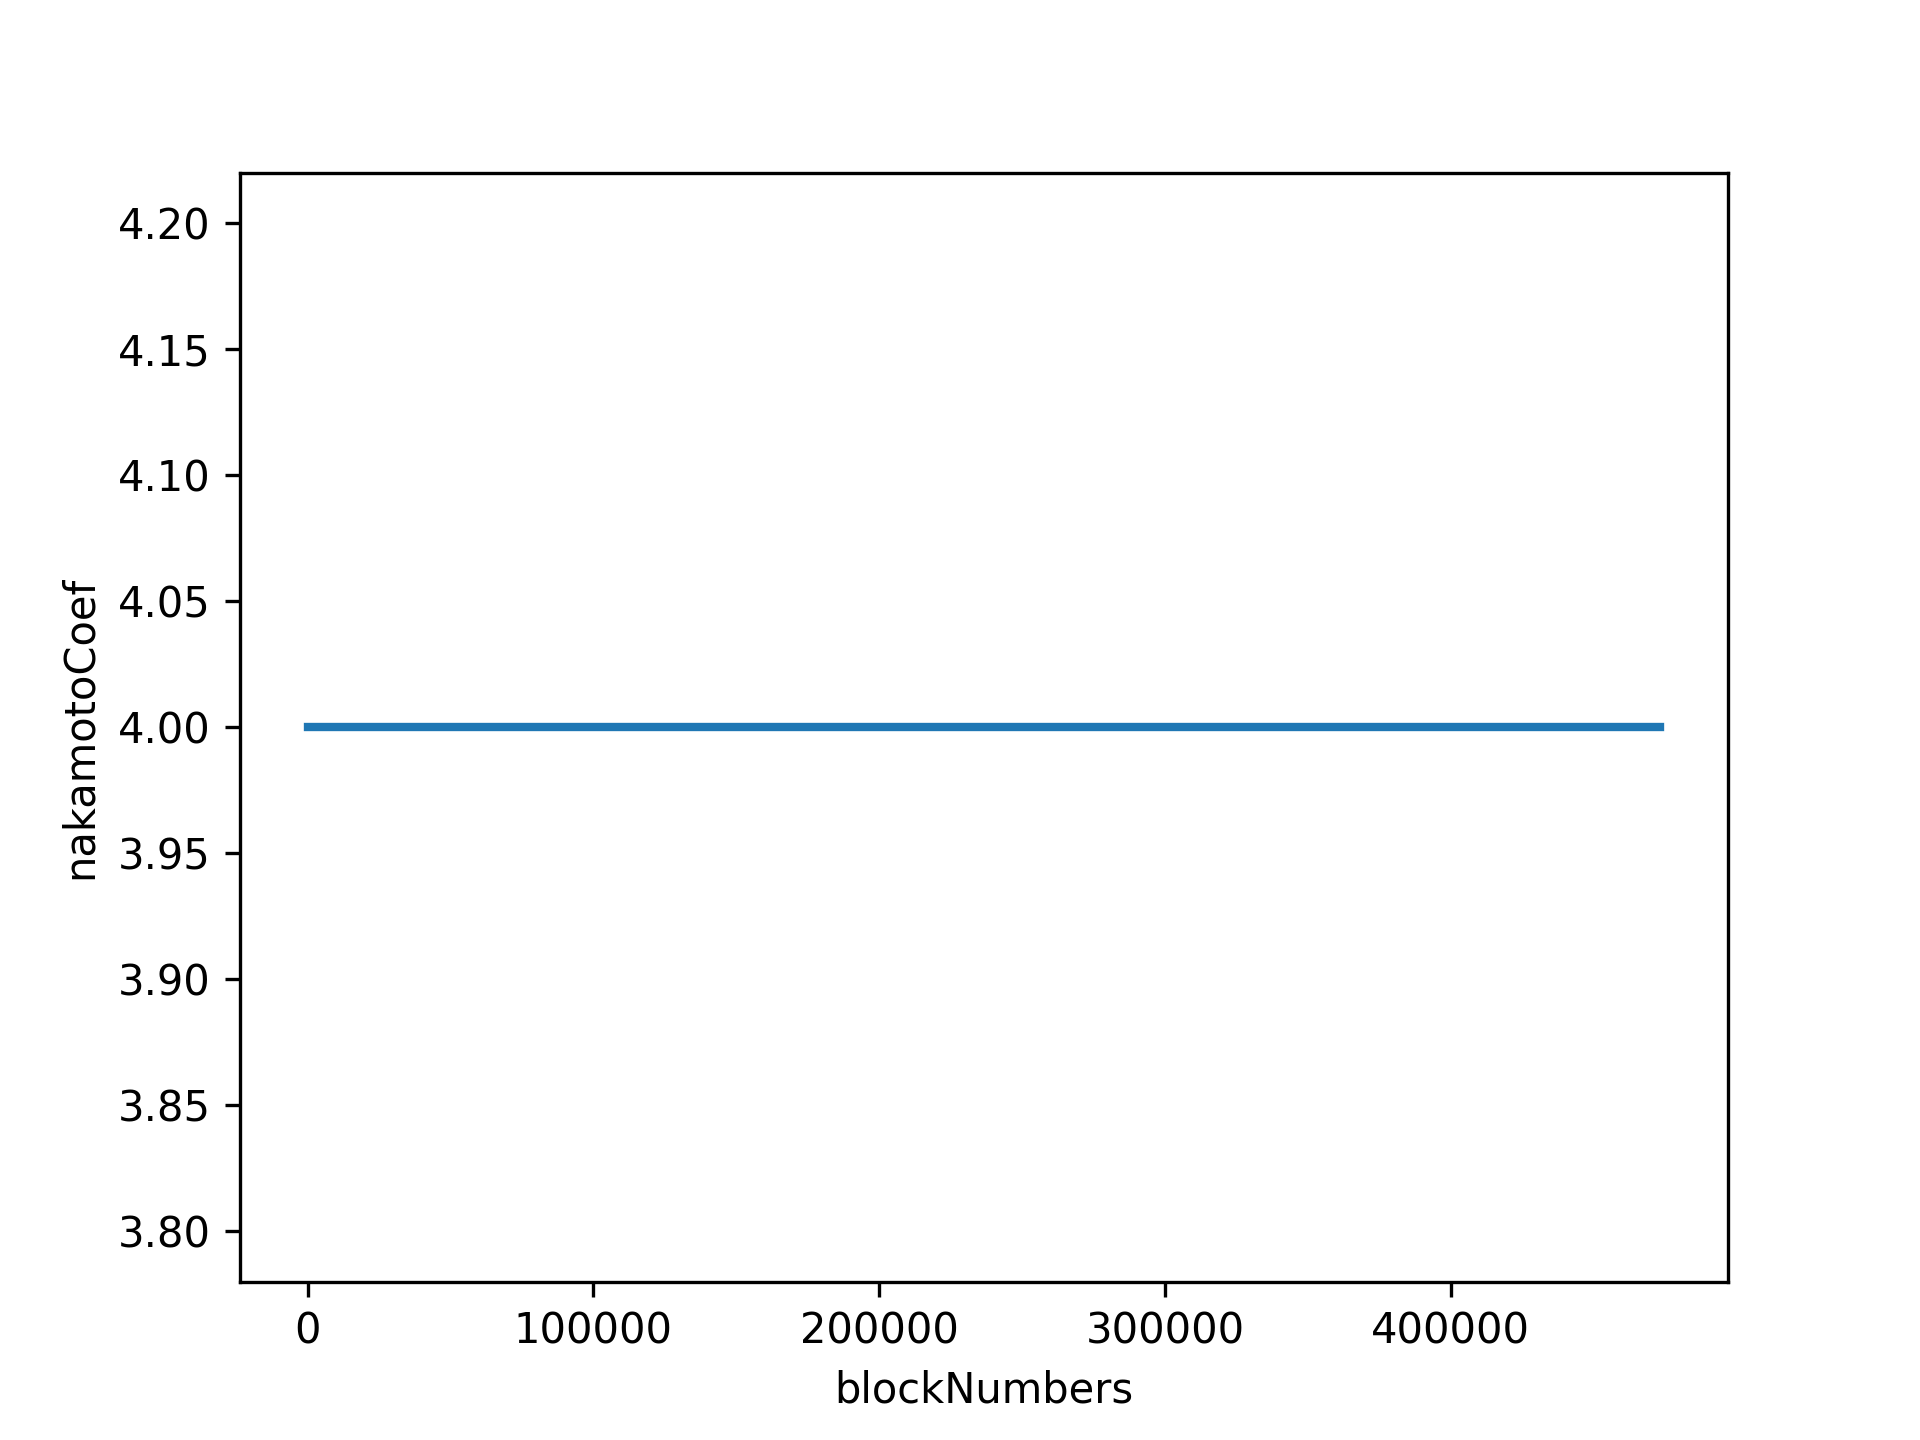
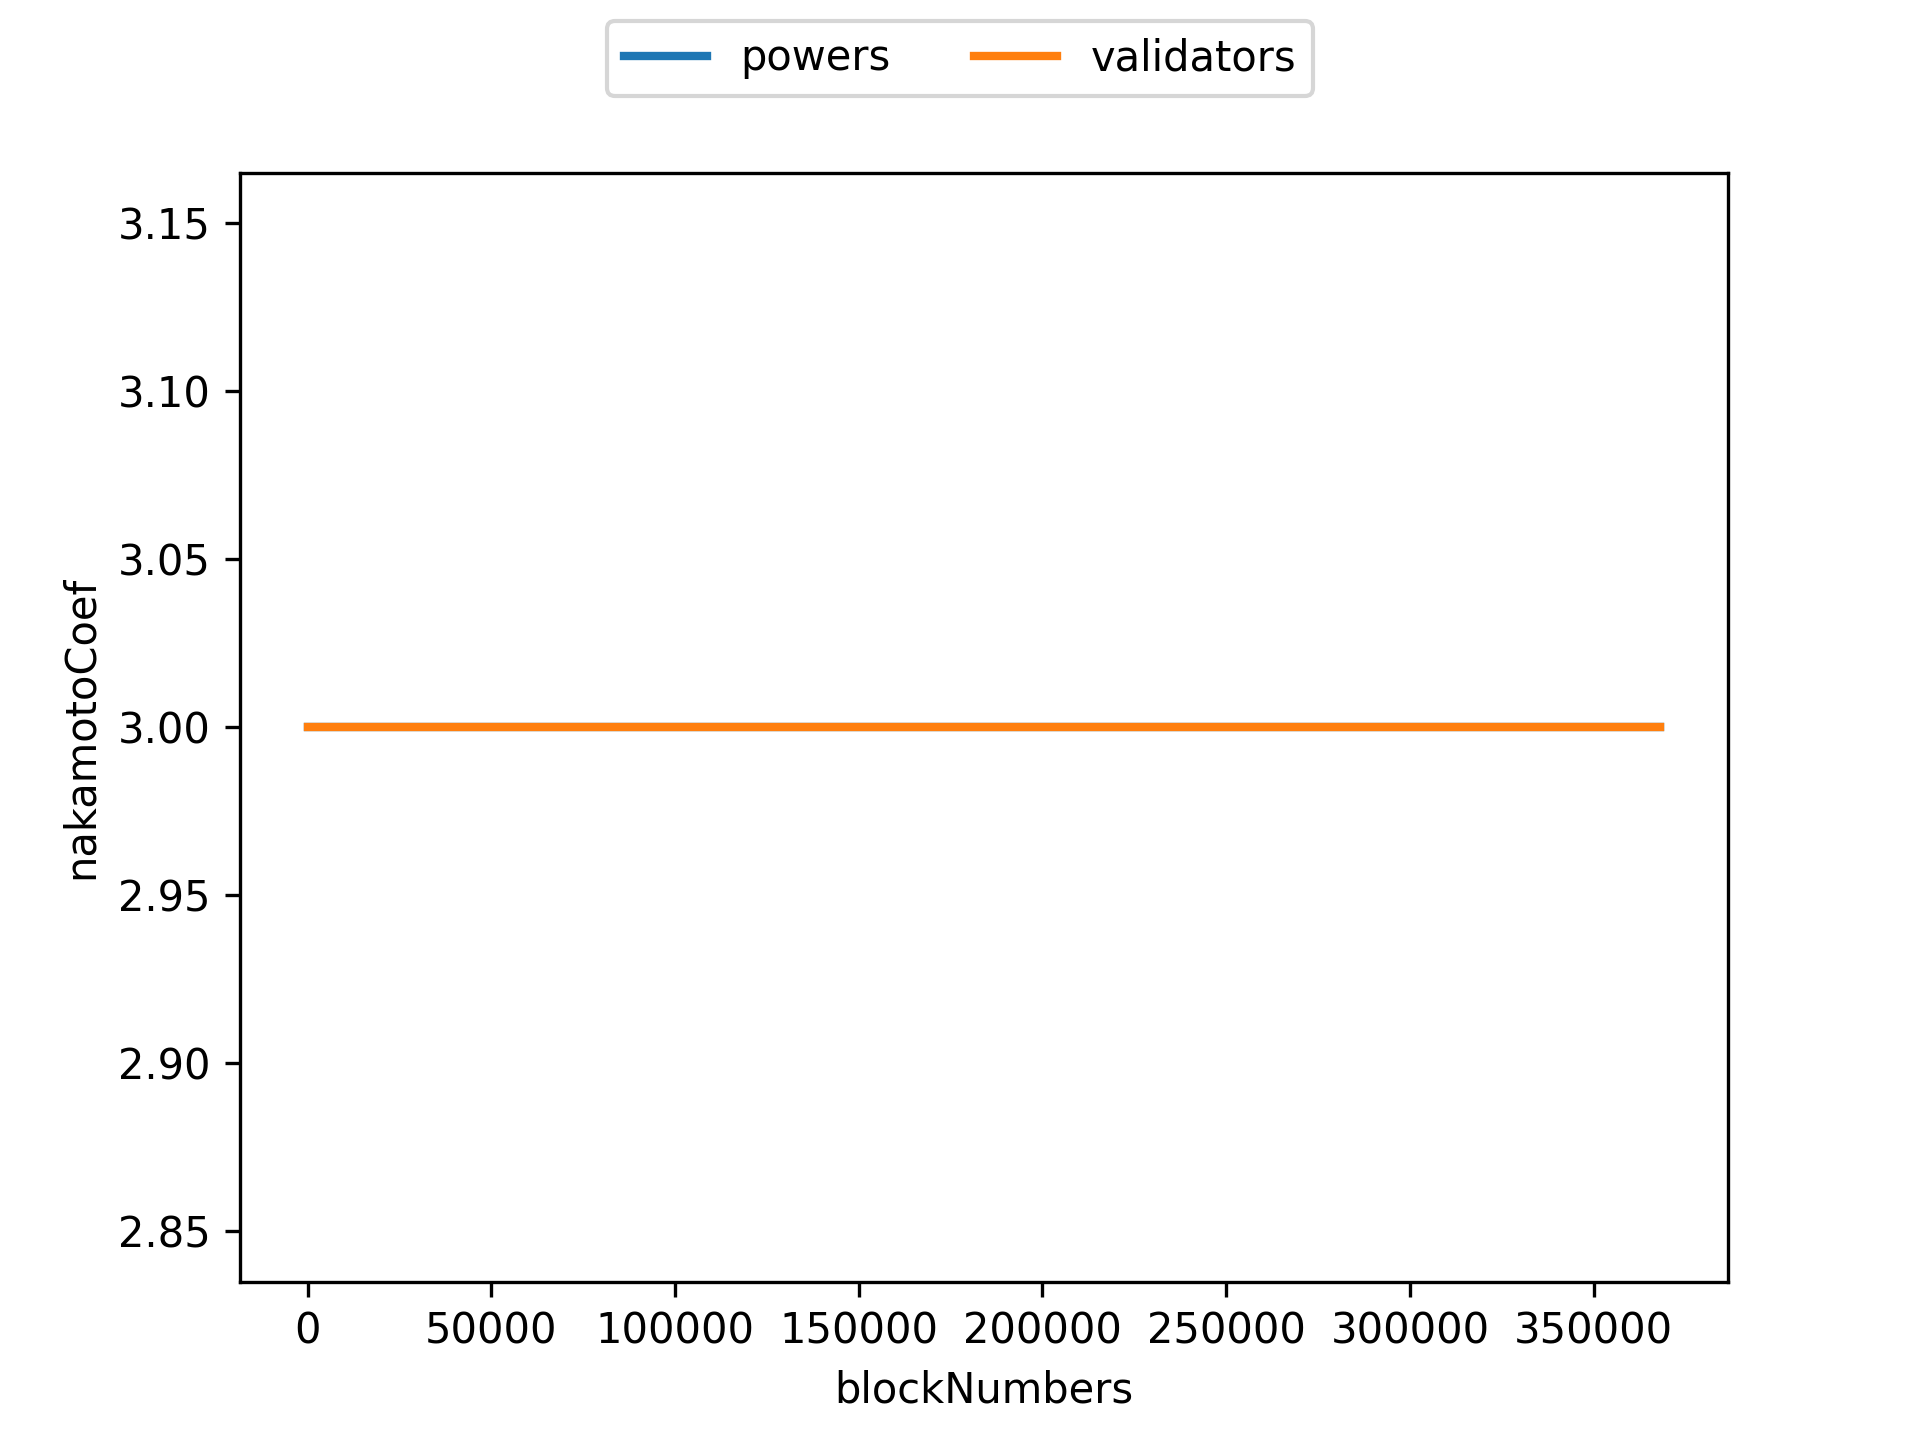
feat: nakamoto for validators only

diff --git a/simulator/dpos/env.py b/simulator/dpos/env.py
@@ -247,7 +247,8 @@ class DposEnv:
                 [self.NextAnnualProvision],
                 [self.BlockProvision],
                 [self.nodes],
-                [self.nakamoto_coefficient]
+                [self.nakamoto_coefficient_power],
+                [self.nakamoto_coefficient_validator]
             )
 
         bondedAmounts = list()
@@ -258,7 +259,8 @@ class DposEnv:
         annualProvisions = list()
         blockProvisions = list()
         nodes = list()
-        nakamotoCoef = list()
+        nakamotoCoef_power = list()
+        nakamotoCoef_validator = list()
 
         for b in range(blocks):
             inflation = self.NextInflationRate
@@ -288,7 +290,8 @@ class DposEnv:
                 blockProvisions.append(blockProvision)
 
                 nodes.append(e[5])
-                nakamotoCoef.append(e[6])
+                nakamotoCoef_power.append(e[6])
+                nakamotoCoef_validator.append(e[7])
         return (
             bondedAmounts,
             stakingRatios,
@@ -298,7 +301,8 @@ class DposEnv:
             annualProvisions,
             blockProvisions,
             nodes,
-            nakamotoCoef
+            nakamotoCoef_power,
+            nakamotoCoef_validator
         )
 
     def status(self):
@@ -310,22 +314,34 @@ class DposEnv:
             self.blockNumber,
 
             self.nodes,
-            self.nakamoto_coefficient
+            self.nakamoto_coefficient_power,
+            self.nakamoto_coefficient_validator
         )
 
     """Fairness & Decentralization"""
 
     @property
-    def nakamoto_coefficient(self):
-        sorted_validators = np.sort(self.powers)[::-1]
-        for i in range(1, len(sorted_validators) + 1):
-            # print(i, sum(sorted_validators[:i]))
-            if sum(sorted_validators[:i]) > (self.bondedAmount / 3):
+    def nakamoto_coefficient_power(self):
+        # maybe same
+        sorted_powers = np.sort(self.powers)[::-1]
+        for i in range(1, len(sorted_powers) + 1):
+            # print(i, sum(sorted_powers[:i]))
+            if sum(sorted_powers[:i]) > (self.bondedAmount / 3):
                 return i
         return self.numNodes
 
     # @property
     # def (self):
+
+    @property
+    def nakamoto_coefficient_validator(self):
+        # maybe increase
+        sorted_validators = np.sort(self.validators)[::-1]
+        for i in range(1, len(sorted_validators) + 1):
+            # print(i, sum(sorted_validators[:i]))
+            if sum(sorted_validators[:i]) > (self.bondedAmount / 3):
+                return i
+        return self.numNodes
 
 
 if __name__ == "__main__":
@@ -341,7 +357,8 @@ if __name__ == "__main__":
 
     # print(env.TotalSupply)
     # print(env.bondedAmount)
-    print(env.nakamoto_coefficient)
+    print(env.nakamoto_coefficient_power)
+    print(env.nakamoto_coefficient_validator)
     # print("-" * 40)
     print(sum(env.powers))
     print(sum(env.validators))
@@ -357,7 +374,8 @@ if __name__ == "__main__":
     env.transition(400000)
     print("")
 
-    print(env.nakamoto_coefficient)
+    print(env.nakamoto_coefficient_power)
+    print(env.nakamoto_coefficient_validator)
     print(sum(env.powers))
     print(sum(env.validators))
     # print("-" * 40)

diff --git a/simulator/dpos/run.py b/simulator/dpos/run.py
@@ -26,7 +26,8 @@ blockNumbers = list()
 annualProvisions = list()
 blockProvisions = list()
 nodes = list()
-nakamotoCoefs = list()
+nakamotoCoefs_power = list()
+nakamotoCoefs_validator = list()
 
 
 def curses_status(r: int):
@@ -46,7 +47,8 @@ def curses_status(r: int):
         curses_addstr_helper(y, 0, "numNodes", env.numNodes, prefix="    "); y += 1
         curses_addstr_helper(y, 0, "validate_cost", env.validate_cost, prefix="    "); y += 1
         curses_addstr_helper(y, 0, "delegate_cost", env.delegate_cost, prefix="    "); y += 1
-        curses_addstr_helper(y, 0, "Nakamoto Coef", env.nakamoto_coefficient, prefix="    ", color=Color.YELLOW); y += 1
+        curses_addstr_helper(y, 0, "Nakamoto Coef Powers", env.nakamoto_coefficient_power, prefix="    ", color=Color.YELLOW); y += 1
+        curses_addstr_helper(y, 0, "Nakamoto Coef Validators", env.nakamoto_coefficient_validator, prefix="    ", color=Color.YELLOW); y += 1
 
     def curses_status_2_predefined():
         y = 0
@@ -132,7 +134,8 @@ def execute_transition(amount: int):
     global annualProvisions
     global blockProvisions
     global nodes
-    global nakamotoCoefs
+    global nakamotoCoefs_power
+    global nakamotoCoefs_validator
 
     e = env.transition(amount)
     bondedAmounts += e[0]
@@ -143,7 +146,8 @@ def execute_transition(amount: int):
     annualProvisions += e[5]
     blockProvisions += e[6]
     nodes += e[7]
-    nakamotoCoefs += e[8]
+    nakamotoCoefs_power += e[8]
+    nakamotoCoefs_validator += e[9]
 
 
 def curses_execute(keys: list):
@@ -226,9 +230,10 @@ def curses_execute(keys: list):
         multi_draw(
             keys[1] + "_coef",  # name
             blockNumbers,  # x
-            [nakamotoCoefs],  # ys
+            [nakamotoCoefs_power, nakamotoCoefs_validator],  # ys
             xlabel="blockNumbers",
             ylabel="nakamotoCoef",
+            legends=["powers", "validators"],
             dpi=dpi,
             save=True
         )
@@ -281,15 +286,12 @@ def curses_execute(keys: list):
         multi_logs(
             keys[1] + "_coef",  # name
             blockNumbers,  # x
-            [
-                nakamotoCoefs
-            ],  # ys
-            legends=[
-                "nakamotoCoefs"
-            ]
+            [nakamotoCoefs_power, nakamotoCoefs_validator],  # ys
+            legends=["powers", "validators"]
         )
 
     # WIP: keys
+
 
 def curses_main():
     r = 0  # 0~2
